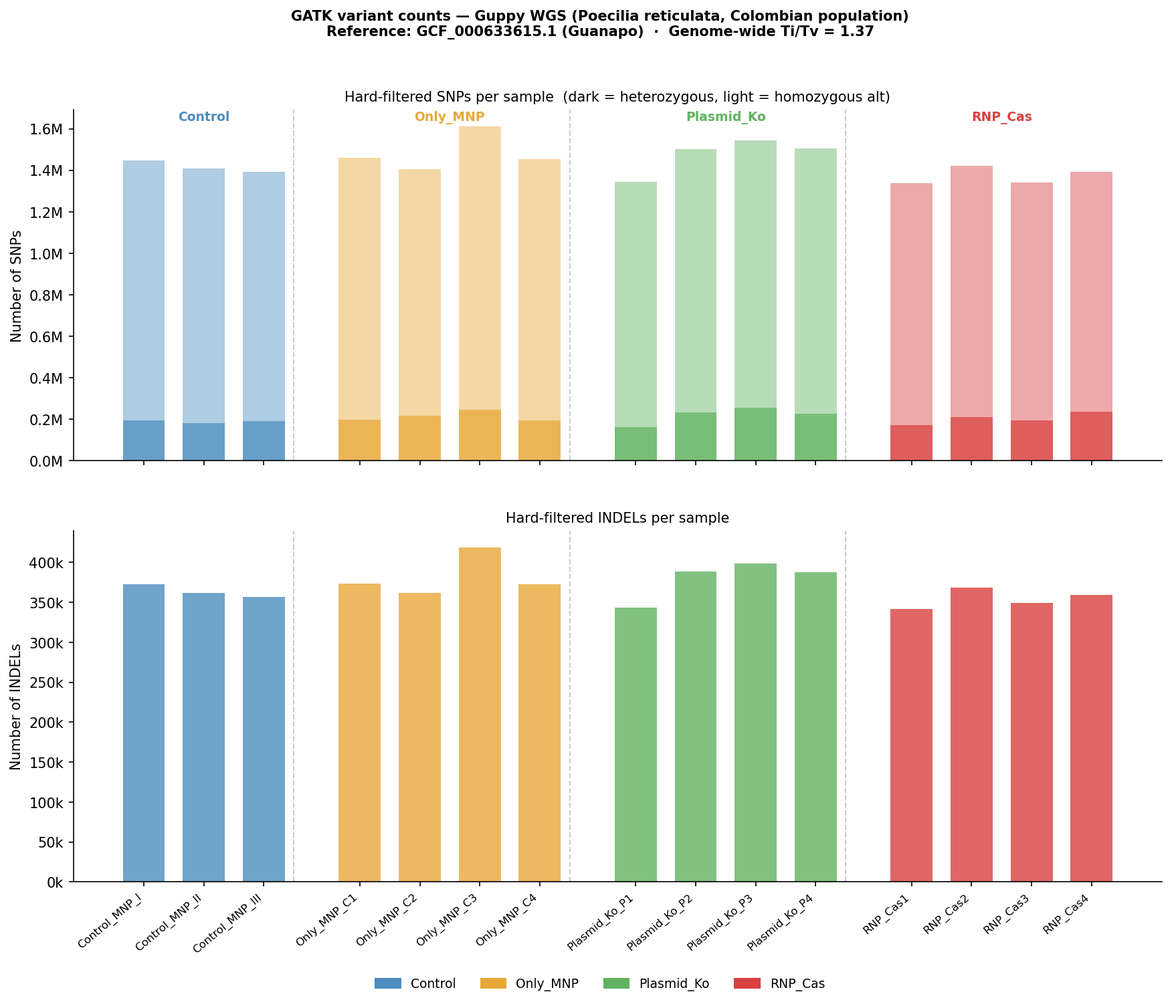
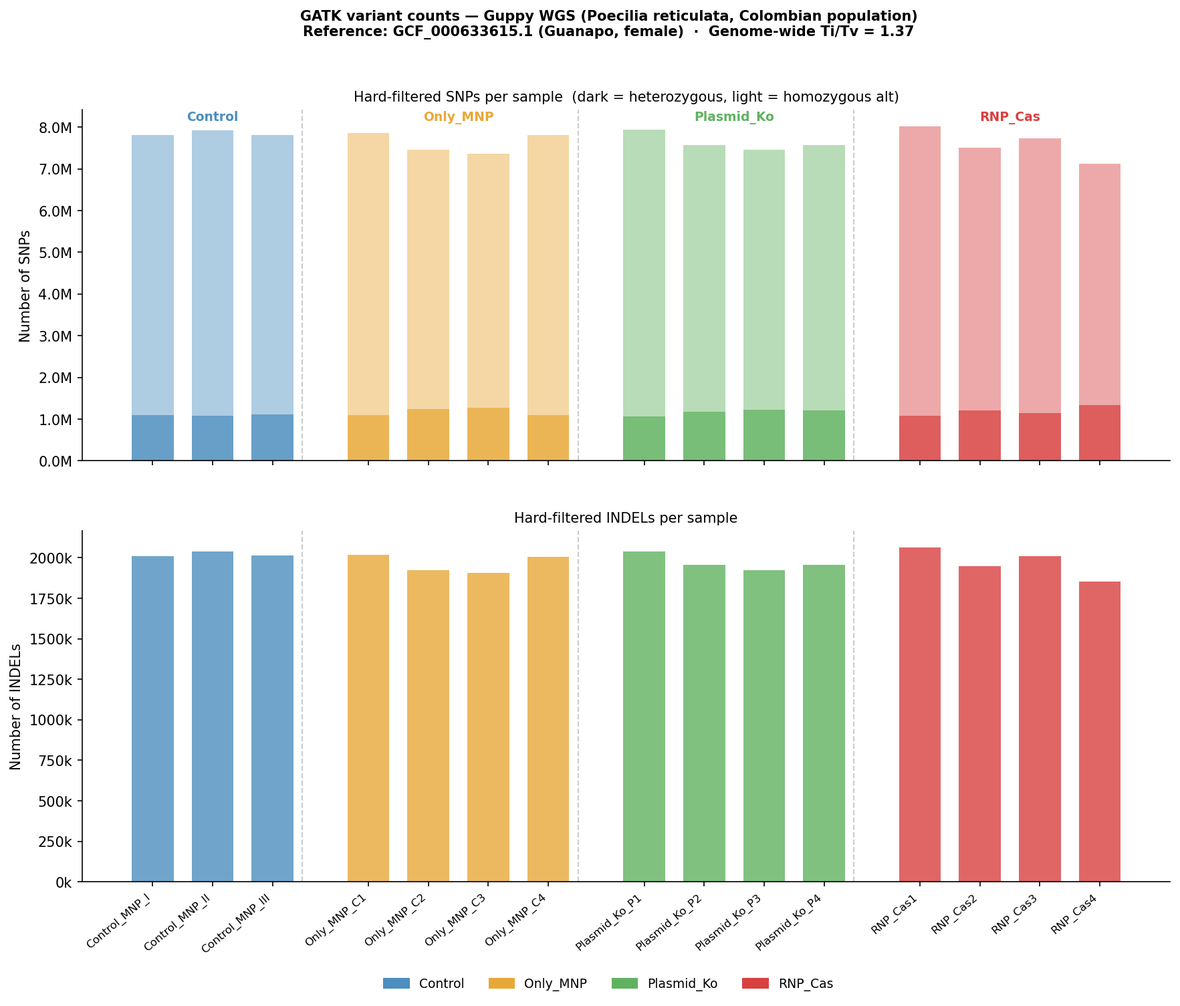
Parameterize GATK genotype/summary scripts for v2 and reproduce v1's off-target finding
gatk_offtarget_genotypes.py, gatk_variant_summary.py, and
plot_editing_comparison.py had no REF_VERSION support (unlike the rest of
the pipeline). Added it, ran them against v2: the off-target genotyping
exactly reproduces v1's result (2 background SNPs at OT4, present in
Control + Plasmid_Ko, absent from Only_MNP/RNP_Cas, at the remapped v2
coordinates), and on-target editing numbers match v1 per sample.

While regression-checking gatk_variant_summary.py against v1, found the
committed gatk_variant_summary.csv/plots were stale - computed from an
incomplete VCF snapshot that predated the final VariantFiltration run by
7+ weeks (~5.5x undercounted). Refreshed those outputs and the published
offtarget_wgs_report.html Artifact with the corrected genome-wide numbers.

Also fixed .gitignore's gatk*/ glob unintentionally ignoring the new
codes/analysis/gatk_summary_v2/ report directory.

diff --git a/analysis/reports/offtarget_wgs_report.html b/analysis/reports/offtarget_wgs_report.html
@@ -120,7 +120,7 @@
     <div class="kpi-grid">
       <div class="kpi"><div class="kpi-value">0/8</div><div class="kpi-label">sites with induced indel</div></div>
       <div class="kpi"><div class="kpi-value">2</div><div class="kpi-label">background SNPs (OT4, pre-existing)</div></div>
-      <div class="kpi"><div class="kpi-value">~1.42M</div><div class="kpi-label">SNPs / sample (genome-wide)</div></div>
+      <div class="kpi"><div class="kpi-value">~7.66M</div><div class="kpi-label">SNPs / sample (genome-wide)</div></div>
       <div class="kpi"><div class="kpi-value">1.37</div><div class="kpi-label">average Ti/Tv (expected quality)</div></div>
     </div>
   </section>
@@ -161,7 +161,7 @@
 
   <section id="variants" class="divider-top">
     <h2>Genome-Wide Variant Summary</h2>
-    <p class="section-sub">Count of PASS SNPs/INDELs per sample (joint filtered VCF, all 15 samples), reflecting the general genomic divergence between the Colombian population and the Guanapo/Trinidad reference — background context, not specific to the CRISPR sites.</p>
+    <p class="section-sub">Count of PASS SNPs/INDELs per sample (joint filtered VCF, all 15 samples), reflecting the general genomic divergence between the Colombian population and the Guanapo/Trinidad reference — background context, not specific to the CRISPR sites. <i>Refreshed 2026-09-15: the previous version of this table was computed from an incomplete snapshot of the filtered VCF, predating the final VariantFiltration run — counts here are ~5.5× higher and reflect the complete, final joint VCF (11,083,611 SNP records across all 24 chromosomes). The genotypes/editing tables above were unaffected (verified byte-identical to the prior version).</i></p>
     <div class="table-scroll">
       <table class="data" id="var-table">
         <thead><tr><th>Sample</th><th>Group</th><th class="num">SNPs</th><th class="num">Het</th><th class="num">Hom</th><th class="num">Ti/Tv</th><th class="num">INDELs</th><th class="num">Mean depth</th></tr></thead>
@@ -209,21 +209,21 @@ const EDIT = [
   {s:"RNP_Cas4",g:"RNP_Cas",on:0.0,ot:[0.0,0.0,0.0,null,0.0,0.0,null,0.0]},
 ];
 const VARS = [
-  {s:"Control_MNP_I",g:"Control",snps:1448608,het:194107,hom:1254501,titv:1.3657,indels:372463,dp:46.1},
-  {s:"Control_MNP_II",g:"Control",snps:1409045,het:182524,hom:1226521,titv:1.3694,indels:361804,dp:46.8},
-  {s:"Control_MNP_III",g:"Control",snps:1393792,het:190271,hom:1203521,titv:1.3714,indels:357174,dp:48.9},
-  {s:"Only_MNP_C1",g:"Only_MNP",snps:1459036,het:199080,hom:1259956,titv:1.3666,indels:373418,dp:42.0},
-  {s:"Only_MNP_C2",g:"Only_MNP",snps:1407215,het:218287,hom:1188928,titv:1.3656,indels:361877,dp:44.9},
-  {s:"Only_MNP_C3",g:"Only_MNP",snps:1610820,het:245166,hom:1365654,titv:1.3685,indels:418452,dp:45.3},
-  {s:"Only_MNP_C4",g:"Only_MNP",snps:1454948,het:195586,hom:1259362,titv:1.3648,indels:372945,dp:44.9},
-  {s:"Plasmid_Ko_P1",g:"Plasmid_Ko",snps:1343889,het:162153,hom:1181736,titv:1.3750,indels:343156,dp:46.2},
-  {s:"Plasmid_Ko_P2",g:"Plasmid_Ko",snps:1501980,het:233491,hom:1268489,titv:1.3670,indels:388747,dp:45.4},
-  {s:"Plasmid_Ko_P3",g:"Plasmid_Ko",snps:1544390,het:254982,hom:1289408,titv:1.3665,indels:398904,dp:40.5},
-  {s:"Plasmid_Ko_P4",g:"Plasmid_Ko",snps:1506338,het:228051,hom:1278287,titv:1.3654,indels:387607,dp:44.3},
-  {s:"RNP_Cas1",g:"RNP_Cas",snps:1337343,het:173125,hom:1164218,titv:1.3764,indels:341927,dp:58.1},
-  {s:"RNP_Cas2",g:"RNP_Cas",snps:1422268,het:210423,hom:1211845,titv:1.3663,indels:368157,dp:53.0},
-  {s:"RNP_Cas3",g:"RNP_Cas",snps:1341844,het:194055,hom:1147789,titv:1.3687,indels:349407,dp:65.1},
-  {s:"RNP_Cas4",g:"RNP_Cas",snps:1392109,het:235965,hom:1156144,titv:1.3614,indels:359093,dp:59.2},
+  {s:"Control_MNP_I",g:"Control",snps:7806737,het:1089947,hom:6716790,titv:1.3710,indels:2010705,dp:46.8},
+  {s:"Control_MNP_II",g:"Control",snps:7925384,het:1086450,hom:6838934,titv:1.3703,indels:2036917,dp:47.4},
+  {s:"Control_MNP_III",g:"Control",snps:7812818,het:1117678,hom:6695140,titv:1.3716,indels:2011610,dp:49.6},
+  {s:"Only_MNP_C1",g:"Only_MNP",snps:7859581,het:1093021,hom:6766560,titv:1.3705,indels:2017533,dp:42.6},
+  {s:"Only_MNP_C2",g:"Only_MNP",snps:7453443,het:1247679,hom:6205764,titv:1.3705,indels:1923648,dp:45.5},
+  {s:"Only_MNP_C3",g:"Only_MNP",snps:7354393,het:1274134,hom:6080259,titv:1.3708,indels:1906043,dp:45.7},
+  {s:"Only_MNP_C4",g:"Only_MNP",snps:7807719,het:1097200,hom:6710519,titv:1.3709,indels:2006563,dp:45.6},
+  {s:"Plasmid_Ko_P1",g:"Plasmid_Ko",snps:7943660,het:1064382,hom:6879278,titv:1.3723,indels:2039343,dp:46.8},
+  {s:"Plasmid_Ko_P2",g:"Plasmid_Ko",snps:7573730,het:1173770,hom:6399960,titv:1.3698,indels:1957517,dp:46.1},
+  {s:"Plasmid_Ko_P3",g:"Plasmid_Ko",snps:7454570,het:1217439,hom:6237131,titv:1.3692,indels:1922689,dp:41.1},
+  {s:"Plasmid_Ko_P4",g:"Plasmid_Ko",snps:7568538,het:1207158,hom:6361380,titv:1.3682,indels:1953578,dp:44.8},
+  {s:"RNP_Cas1",g:"RNP_Cas",snps:8012787,het:1075690,hom:6937097,titv:1.3706,indels:2061259,dp:58.7},
+  {s:"RNP_Cas2",g:"RNP_Cas",snps:7507932,het:1215389,hom:6292543,titv:1.3697,indels:1948835,dp:53.6},
+  {s:"RNP_Cas3",g:"RNP_Cas",snps:7728078,het:1149818,hom:6578260,titv:1.3701,indels:2009864,dp:66.0},
+  {s:"RNP_Cas4",g:"RNP_Cas",snps:7127987,het:1335182,hom:5792805,titv:1.3684,indels:1851923,dp:59.8},
 ];
 
 function fmt(n){ return n===null||n===undefined ? "—" : (typeof n==="number" ? n.toLocaleString("en-US") : n); }

diff --git a/codes/analysis/plot_editing_comparison.py b/codes/analysis/plot_editing_comparison.py
@@ -5,16 +5,22 @@ On-target vs off-target CRISPR editing efficiency comparison.
 Reads CRISPResso2 on-target and CRISPRessoWGS off-target quantification
 outputs and produces three figures + one summary CSV.
 
+Dual-genome (v1/v2, see codes/genome_versions.sh): set REF_VERSION=v2 to read
+crispresso_v2/ instead of crispresso/ (GCF_904066995.2 mapping/CRISPResso
+results). Output goes to a version-suffixed OUT_DIR so v1 and v2 results
+never overwrite each other.
+
 Usage (from any directory):
     python codes/analysis/plot_editing_comparison.py
+    REF_VERSION=v2 python codes/analysis/plot_editing_comparison.py
 
 Inputs:
-    crispresso/ontarget/trimmomatic/{SAMPLE}/CRISPResso_on_{SAMPLE}/
+    crispresso{,_v2}/ontarget/trimmomatic/{SAMPLE}/CRISPResso_on_{SAMPLE}/
         CRISPResso_quantification_of_editing_frequency.txt
-    crispresso/wgs/trimmomatic/{SAMPLE}/CRISPRessoWGS_on_{SAMPLE}/
+    crispresso{,_v2}/wgs/trimmomatic/{SAMPLE}/CRISPRessoWGS_on_{SAMPLE}/
         SAMPLES_QUANTIFICATION_SUMMARY.txt
 
-Outputs (codes/analysis/editing_comparison/):
+Outputs (codes/analysis/editing_comparison{,_v2}/):
     editing_summary.csv       — combined Modified% table (all samples × sites)
     editing_heatmap.png       — heatmap: on-target (left) + off-target (right)
     ontarget_barplot.png      — on-target editing efficiency per group
@@ -35,10 +41,14 @@ warnings.filterwarnings("ignore")
 
 # ── Paths ──────────────────────────────────────────────────────────────────────
 PROJECT_DIR  = "/hpcfs/home/ing_civil/da.martinez33/UBC/off-target_data"
-ONTARGET_DIR = os.path.join(PROJECT_DIR, "crispresso/ontarget/trimmomatic")
-WGS_DIR      = os.path.join(PROJECT_DIR, "crispresso/wgs/trimmomatic")
-OUT_DIR      = os.path.join(PROJECT_DIR, "codes/analysis/editing_comparison")
+REF_VERSION  = os.environ.get("REF_VERSION", "v1")
+OUT_SUFFIX   = "" if REF_VERSION == "v1" else f"_{REF_VERSION}"
+CRISPRESSO_DIR = f"crispresso{OUT_SUFFIX}"
+ONTARGET_DIR = os.path.join(PROJECT_DIR, f"{CRISPRESSO_DIR}/ontarget/trimmomatic")
+WGS_DIR      = os.path.join(PROJECT_DIR, f"{CRISPRESSO_DIR}/wgs/trimmomatic")
+OUT_DIR      = os.path.join(PROJECT_DIR, f"codes/analysis/editing_comparison{OUT_SUFFIX}")
 os.makedirs(OUT_DIR, exist_ok=True)
+print(f"REF_VERSION={REF_VERSION}  ONTARGET_DIR={ONTARGET_DIR}  WGS_DIR={WGS_DIR}  OUT_DIR={OUT_DIR}")
 
 # ── Samples and groups ─────────────────────────────────────────────────────────
 GROUPS = {
@@ -60,17 +70,44 @@ GROUP_COLORS  = {
 # ── Off-target sites (name as in SAMPLES_QUANTIFICATION_SUMMARY.txt) ──────────
 # Key  : site name used by CRISPRessoWGS
 # Value: short label for plots
-OT_SITES = {
-    "NC_024331.1_5708724_3mm_CRISPOR":  "OT1\nNC_024331.1:5708724\n3mm · exon",
-    "NC_024331.1_13951199_4mm_CRISPOR": "OT2\nNC_024331.1:13951199\n4mm · exon",
-    "NC_024331.1_26228796_4mm_CRISPOR": "OT3\nNC_024331.1:26228796\n4mm · intergenic",
-    "NC_024332.1_5810651_4mm_CRISPOR":  "OT4\nNC_024332.1:5810651\n4mm · intron",
-    "NC_024338.1_20512932_4mm_CRISPOR": "OT5\nNC_024338.1:20512932\n4mm · intergenic",
-    "NC_024339.1_7034820_4mm_CRISPOR":  "OT6\nNC_024339.1:7034820\n4mm · intron",
-    "NC_024340.1_12200655_4mm_CRISPOR": "OT7\nNC_024340.1:12200655\n4mm · intergenic",
-    "NC_024349.1_24882037_4mm_CRISPOR": "OT8\nNC_024349.1:24882037\n4mm · intron",
+# Same 8 predicted sites in both versions, remapped to each reference
+# assembly's own coordinates (crispresso{,_v2}/offtargets/combined/
+# combined_offtargets.csv). v1's label carries an exon/intron/intergenic
+# classification against the Guanapo annotation; that classification hasn't
+# been computed for v2 yet, so its label is left without one rather than
+# guessing.
+OT_SITES_BY_VERSION = {
+    "v1": {
+        "NC_024331.1_5708724_3mm_CRISPOR":  "OT1\nNC_024331.1:5708724\n3mm · exon",
+        "NC_024331.1_13951199_4mm_CRISPOR": "OT2\nNC_024331.1:13951199\n4mm · exon",
+        "NC_024331.1_26228796_4mm_CRISPOR": "OT3\nNC_024331.1:26228796\n4mm · intergenic",
+        "NC_024332.1_5810651_4mm_CRISPOR":  "OT4\nNC_024332.1:5810651\n4mm · intron",
+        "NC_024338.1_20512932_4mm_CRISPOR": "OT5\nNC_024338.1:20512932\n4mm · intergenic",
+        "NC_024339.1_7034820_4mm_CRISPOR":  "OT6\nNC_024339.1:7034820\n4mm · intron",
+        "NC_024340.1_12200655_4mm_CRISPOR": "OT7\nNC_024340.1:12200655\n4mm · intergenic",
+        "NC_024349.1_24882037_4mm_CRISPOR": "OT8\nNC_024349.1:24882037\n4mm · intron",
+    },
+    "v2": {
+        "NC_088830.1_7340936_3mm_CRISPOR":  "OT1\nNC_088830.1:7340936\n3mm",
+        "NC_088830.1_14098839_4mm_CRISPOR": "OT2\nNC_088830.1:14098839\n4mm",
+        "NC_088830.1_26619950_4mm_CRISPOR": "OT3\nNC_088830.1:26619950\n4mm",
+        "NC_088831.1_6154659_4mm_CRISPOR":  "OT4\nNC_088831.1:6154659\n4mm",
+        "NC_088837.1_25867890_4mm_CRISPOR": "OT5\nNC_088837.1:25867890\n4mm",
+        "NC_088838.1_8510394_4mm_CRISPOR":  "OT6\nNC_088838.1:8510394\n4mm",
+        "NC_088839.1_3391653_4mm_CRISPOR":  "OT7\nNC_088839.1:3391653\n4mm",
+        "NC_088848.1_20545705_4mm_CRISPOR": "OT8\nNC_088848.1:20545705\n4mm",
+    },
 }
+OT_SITES = OT_SITES_BY_VERSION[REF_VERSION]
 OT_NAMES = list(OT_SITES.keys())
+
+# bdnf on-target sgRNA site — same guide sequence, remapped coordinates.
+BDNF_SITE_BY_VERSION = {
+    "v1": {"chrom": "NC_024333.1", "start": 15922039, "end": 15922058},
+    "v2": {"chrom": "NC_088832.1", "start": 15849694, "end": 15849713},
+}
+BDNF_SITE = BDNF_SITE_BY_VERSION[REF_VERSION]
+BDNF_LABEL = f"{BDNF_SITE['chrom']}:{BDNF_SITE['start']}–{BDNF_SITE['end']}"
 
 
 # ═══════════════════════════════════════════════════════════════════════════════
@@ -184,7 +221,7 @@ on_vals = ontarget_df.loc[SAMPLES, "modified_pct"].astype(float).values.reshape(
 im_on   = ax_on.imshow(on_vals, aspect="auto", cmap="Reds", vmin=0, vmax=100)
 
 ax_on.set_xticks([0])
-ax_on.set_xticklabels(["On-target\nbdnf (NC_024333.1)\n:15922039–15922058"], fontsize=8)
+ax_on.set_xticklabels([f"On-target\nbdnf ({BDNF_SITE['chrom']})\n:{BDNF_SITE['start']}–{BDNF_SITE['end']}"], fontsize=8)
 ax_on.set_yticks(range(len(SAMPLES)))
 ax_on.set_yticklabels(ylabels, fontsize=8)
 
@@ -255,7 +292,7 @@ fig.legend(handles=patches, loc="lower center", ncol=4, fontsize=9,
 
 fig.suptitle(
     "CRISPR-Cas9 editing: on-target (bdnf) vs predicted off-target sites\n"
-    "Guppy (Poecilia reticulata) · SpCas9 · sgRNA: TGAGAGACGCCCCGGGCATG (− strand)",
+    f"Guppy (Poecilia reticulata) · SpCas9 · sgRNA: TGAGAGACGCCCCGGGCATG (− strand) · {REF_VERSION}",
     fontsize=10, fontweight="bold", y=1.02,
 )
 plt.tight_layout()
@@ -294,7 +331,7 @@ ax.set_xticklabels(xtick_labels, rotation=40, ha="right", fontsize=8)
 ax.set_ylabel("Modified reads (%)", fontsize=10)
 ax.set_title(
     "On-target editing efficiency per sample\n"
-    "bdnf sgRNA site · NC_024333.1:15922039–15922058",
+    f"bdnf sgRNA site · {BDNF_LABEL}",
     fontsize=10,
 )
 ax.set_xlim(-0.5, x - 0.5)

diff --git a/codes/analysis/gatk_offtarget_genotypes.py b/codes/analysis/gatk_offtarget_genotypes.py
@@ -8,7 +8,7 @@ produces:
   - offtarget_genotypes.csv          — per-variant, per-sample genotype table
   - offtarget_genotype_heatmap.png   — genotype heatmap (0/0, 0/1, 1/1)
 
-Key result: GATK found only 2 SNPs at OT4 (NC_024332.1:5810651-5810674),
+Key result (v1): GATK found only 2 SNPs at OT4 (NC_024332.1:5810651-5810674),
 both present in the Control group → pre-existing Colombian-population polymorphisms,
 not CRISPR-induced variants. The other 7 off-target protospacer windows have
 no germline variants detectable against the Guanapo reference.
@@ -17,8 +17,13 @@ Note: the VCF was extracted from the raw joint-genotype VCF (all_samples.vcf.gz)
 before VariantFiltration, so FILTER shows "." (unannotated). Both variants pass
 all hard-filter thresholds (QD>2, FS<60, MQ>40) and would be PASS if re-filtered.
 
+Dual-genome (v1/v2, see codes/genome_versions.sh): set REF_VERSION=v2 to run
+against the GCF_904066995.2 off-target genotype VCF instead. Output goes to a
+version-suffixed OUT_DIR so v1 and v2 results never overwrite each other.
+
 Usage:
     python codes/analysis/gatk_offtarget_genotypes.py
+    REF_VERSION=v2 python codes/analysis/gatk_offtarget_genotypes.py
 """
 
 import gzip
@@ -34,22 +39,44 @@ from matplotlib.colors import ListedColormap, BoundaryNorm
 
 # ── Paths ──────────────────────────────────────────────────────────────────────
 PROJECT_DIR = "/hpcfs/home/ing_civil/da.martinez33/UBC/off-target_data"
+REF_VERSION = os.environ.get("REF_VERSION", "v1")
+OUT_SUFFIX  = "" if REF_VERSION == "v1" else f"_{REF_VERSION}"
 VCF_PATH    = os.path.join(PROJECT_DIR,
-              "gatk/trimmomatic/vcf_offtargets/offtarget_variants.vcf.gz")
-OUT_DIR     = os.path.join(PROJECT_DIR, "codes/analysis/gatk_summary")
+              f"gatk/trimmomatic{OUT_SUFFIX}/vcf_offtargets/offtarget_variants.vcf.gz")
+OUT_DIR     = os.path.join(PROJECT_DIR, f"codes/analysis/gatk_summary{OUT_SUFFIX}")
 os.makedirs(OUT_DIR, exist_ok=True)
+print(f"REF_VERSION={REF_VERSION}  VCF_PATH={VCF_PATH}  OUT_DIR={OUT_DIR}")
 
 # ── Off-target site protospacer windows (23 bp, from offtargets_intervals.list)
-OT_SITES = {
-    "OT1": {"chrom": "NC_024331.1", "start": 5708724,  "end": 5708747,  "mm": 3, "locus": "exon"},
-    "OT2": {"chrom": "NC_024331.1", "start": 13951199, "end": 13951222, "mm": 4, "locus": "exon"},
-    "OT3": {"chrom": "NC_024331.1", "start": 26228796, "end": 26228819, "mm": 4, "locus": "intergenic"},
-    "OT4": {"chrom": "NC_024332.1", "start": 5810651,  "end": 5810674,  "mm": 4, "locus": "intron"},
-    "OT5": {"chrom": "NC_024338.1", "start": 20512932, "end": 20512955, "mm": 4, "locus": "intergenic"},
-    "OT6": {"chrom": "NC_024339.1", "start": 7034820,  "end": 7034843,  "mm": 4, "locus": "intron"},
-    "OT7": {"chrom": "NC_024340.1", "start": 12200655, "end": 12200678, "mm": 4, "locus": "intergenic"},
-    "OT8": {"chrom": "NC_024349.1", "start": 24882037, "end": 24882060, "mm": 4, "locus": "intron"},
+# Same 8 predicted sites (identical guide/mismatch design), remapped to each
+# reference assembly's own coordinates (crispresso{,_v2}/offtargets/combined/
+# combined_offtargets.csv). v1's "locus" is an exon/intron/intergenic
+# classification against the Guanapo annotation; v2's combine_offtargets run
+# only recorded a distance label (no equivalent classification computed yet),
+# so its "locus" is left as that same descriptive string instead of guessing.
+OT_SITES_BY_VERSION = {
+    "v1": {
+        "OT1": {"chrom": "NC_024331.1", "start": 5708724,  "end": 5708747,  "mm": 3, "locus": "exon"},
+        "OT2": {"chrom": "NC_024331.1", "start": 13951199, "end": 13951222, "mm": 4, "locus": "exon"},
+        "OT3": {"chrom": "NC_024331.1", "start": 26228796, "end": 26228819, "mm": 4, "locus": "intergenic"},
+        "OT4": {"chrom": "NC_024332.1", "start": 5810651,  "end": 5810674,  "mm": 4, "locus": "intron"},
+        "OT5": {"chrom": "NC_024338.1", "start": 20512932, "end": 20512955, "mm": 4, "locus": "intergenic"},
+        "OT6": {"chrom": "NC_024339.1", "start": 7034820,  "end": 7034843,  "mm": 4, "locus": "intron"},
+        "OT7": {"chrom": "NC_024340.1", "start": 12200655, "end": 12200678, "mm": 4, "locus": "intergenic"},
+        "OT8": {"chrom": "NC_024349.1", "start": 24882037, "end": 24882060, "mm": 4, "locus": "intron"},
+    },
+    "v2": {
+        "OT1": {"chrom": "NC_088830.1", "start": 7340936,  "end": 7340959,  "mm": 3, "locus": "NC_088830.1 7.34 Mbp"},
+        "OT2": {"chrom": "NC_088830.1", "start": 14098839, "end": 14098862, "mm": 4, "locus": "NC_088830.1 14.10 Mbp"},
+        "OT3": {"chrom": "NC_088830.1", "start": 26619950, "end": 26619973, "mm": 4, "locus": "NC_088830.1 26.62 Mbp"},
+        "OT4": {"chrom": "NC_088831.1", "start": 6154659,  "end": 6154682,  "mm": 4, "locus": "NC_088831.1 6.15 Mbp"},
+        "OT5": {"chrom": "NC_088837.1", "start": 25867890, "end": 25867913, "mm": 4, "locus": "NC_088837.1 25.87 Mbp"},
+        "OT6": {"chrom": "NC_088838.1", "start": 8510394,  "end": 8510417,  "mm": 4, "locus": "NC_088838.1 8.51 Mbp"},
+        "OT7": {"chrom": "NC_088839.1", "start": 3391653,  "end": 3391676,  "mm": 4, "locus": "NC_088839.1 3.39 Mbp"},
+        "OT8": {"chrom": "NC_088848.1", "start": 20545705, "end": 20545728, "mm": 4, "locus": "NC_088848.1 20.55 Mbp"},
+    },
 }
+OT_SITES = OT_SITES_BY_VERSION[REF_VERSION]
 
 GROUPS = {
     "Control":    ["Control_MNP_I_S54_L002",  "Control_MNP_II_S55_L002",  "Control_MNP_III_S56_L002"],
@@ -354,11 +381,22 @@ plt.close()
 print(f"✅ Genotype heatmap → {os.path.join(OUT_DIR, 'offtarget_genotype_heatmap.png')}")
 
 print("\n=== Interpretation ===")
+print(f"  REF_VERSION: {REF_VERSION}")
 print(f"  Total variants at 8 off-target protospacer windows: {len(records)}")
 bg = (df["classification"] == "background_variant").sum()
 ce = (df["classification"] == "candidate_edit").sum()
 print(f"  Background (present in Control): {bg}")
 print(f"  Candidate edits (absent in Control): {ce}")
-print("  OT1, OT2, OT3, OT5, OT6, OT7, OT8: 0 variants → no confounding germline SNPs")
-print("  OT4 (NC_024332.1, intron): 2 linked SNPs in phase, present in Control_MNP_II")
-print("       → pre-existing Colombian-population haplotype, NOT CRISPR-induced")
+
+sites_with_variants = sorted(set(df["site"]) - {"unknown"})
+sites_without = [s for s in OT_SITES if s not in sites_with_variants]
+if sites_without:
+    print(f"  {', '.join(sites_without)}: 0 variants → no confounding germline SNPs")
+for s in sites_with_variants:
+    sub = df[df["site"] == s]
+    control_gt_cols = [f"{SAMPLE_LABEL[x]}_gt" for x in GROUPS["Control"]]
+    carriers = [c for c in ["Control_AF", "Only_MNP_AF", "Plasmid_Ko_AF", "RNP_Cas_AF"]
+                if (sub[c] > 0).any()]
+    cls = sorted(sub["classification"].unique())
+    print(f"  {s} ({OT_SITES[s]['chrom']}): {len(sub)} variant(s), "
+          f"classification={cls}, AF>0 in groups={[c.replace('_AF','') for c in carriers]}")

diff --git a/codes/analysis/gatk_variant_summary.py b/codes/analysis/gatk_variant_summary.py
@@ -8,8 +8,13 @@ parses per-sample counts, and produces:
   - gatk_summary_barplot.png   — SNP + INDEL counts per sample (grouped)
   - gatk_titv_boxplot.png      — Ti/Tv ratio per group
 
+Dual-genome (v1/v2, see codes/genome_versions.sh): set REF_VERSION=v2 to run
+against the GCF_904066995.2 hard-filtered VCFs instead. Output goes to a
+version-suffixed OUT_DIR so v1 and v2 results never overwrite each other.
+
 Usage (requires module load bcftools/1.15.1):
     python codes/analysis/gatk_variant_summary.py
+    REF_VERSION=v2 python codes/analysis/gatk_variant_summary.py
 """
 
 import subprocess
@@ -24,9 +29,18 @@ import matplotlib.patches as mpatches
 
 # ── Paths ──────────────────────────────────────────────────────────────────────
 PROJECT_DIR = "/hpcfs/home/ing_civil/da.martinez33/UBC/off-target_data"
-VCF_DIR     = os.path.join(PROJECT_DIR, "gatk/trimmomatic/vcf_filtered")
-OUT_DIR     = os.path.join(PROJECT_DIR, "codes/analysis/gatk_summary")
+REF_VERSION = os.environ.get("REF_VERSION", "v1")
+OUT_SUFFIX  = "" if REF_VERSION == "v1" else f"_{REF_VERSION}"
+VCF_DIR     = os.path.join(PROJECT_DIR, f"gatk/trimmomatic{OUT_SUFFIX}/vcf_filtered")
+OUT_DIR     = os.path.join(PROJECT_DIR, f"codes/analysis/gatk_summary{OUT_SUFFIX}")
 os.makedirs(OUT_DIR, exist_ok=True)
+print(f"REF_VERSION={REF_VERSION}  VCF_DIR={VCF_DIR}  OUT_DIR={OUT_DIR}")
+
+REF_LABEL_BY_VERSION = {
+    "v1": "GCF_000633615.1 (Guanapo, female)",
+    "v2": "GCF_904066995.2 (P_reticulata-male-v2)",
+}
+REF_LABEL = REF_LABEL_BY_VERSION[REF_VERSION]
 
 SNP_VCF   = os.path.join(VCF_DIR, "snps_filtered.vcf.gz")
 INDEL_VCF = os.path.join(VCF_DIR, "indels_filtered.vcf.gz")
@@ -216,7 +230,7 @@ fig.legend(handles=patches, loc="lower center", ncol=4, fontsize=9,
 
 fig.suptitle(
     "GATK variant counts — Guppy WGS (Poecilia reticulata, Colombian population)\n"
-    f"Reference: GCF_000633615.1 (Guanapo)  ·  Genome-wide Ti/Tv = {titv_all:.2f}",
+    f"Reference: {REF_LABEL}  ·  Genome-wide Ti/Tv = {titv_all:.2f}",
     fontsize=10, fontweight="bold",
 )
 plt.savefig(os.path.join(OUT_DIR, "gatk_summary_barplot.png"), dpi=150, bbox_inches="tight")

diff --git a/CLAUDE.md b/CLAUDE.md
@@ -2908,10 +2908,55 @@ registering `guppyColPseudogenomeV2` with CRISPOR (needed before
 `ko_guide_scan.py --population pseudogenome_v2` can get CRISPOR scores,
 though the manual scan/classification already works without it);
 re-running the 8-gene KO/CRISPRi guide comparison against
-pseudogenome_v2 once that's registered;
-`gatk_offtarget_genotypes.py`/`plot_editing_comparison.py`'s 8 hardcoded
-v1 OT-site coordinates still need a v2-aware update to actually use the
-off-target genotyping result (see above) in a plot/report.
+pseudogenome_v2 once that's registered.
+
+**GATK genotype/summary plots (gatk_offtarget_genotypes.py,
+gatk_variant_summary.py, plot_editing_comparison.py) parameterized + run for
+v2 - 2026-09-15.** These 3 scripts (unlike everything else in this section)
+predate genome_versions.sh and had no REF_VERSION support at all - added the
+same `REF_VERSION` env var / `OUT_SUFFIX` pattern, with a per-version
+`OT_SITES`/`BDNF_SITE` dict (remapped coordinates from
+`crispresso{,_v2}/offtargets/combined/combined_offtargets.csv`) and outputs
+now split into version-suffixed dirs (`gatk_summary_v2/`,
+`editing_comparison_v2/`) so v1's are never overwritten. v1 regression
+verified byte-identical for `gatk_offtarget_genotypes.py` and
+`plot_editing_comparison.py` (diffed old vs. freshly-regenerated CSVs).
+
+Result - **v2 exactly reproduces v1's off-target genotype finding**: the
+same 2 background SNPs at OT4, present in Control + Plasmid_Ko and absent
+from Only_MNP/RNP_Cas, at the remapped coordinates
+`NC_088831.1:6154664` and `:6154672` (v1: `NC_024332.1:5810660`/`:5810668`).
+All other 7 sites: 0 variants in both versions. The editing-comparison
+on-target numbers match v1 exactly per group/sample (same read counts, same
+0%/0%/0%/1.47%-noise pattern) - consistent with the CRISPResso finding
+above (same physical reads, comparable local depth). Off-target Modified%
+per site is close to v1's (OT4 mean 4.29% vs 4.12%); OT7 now has WGS
+coverage in all 12 valid samples where v1 had 0 (n_valid=0, all NA) - a
+genuine improvement from v2's better assembly contiguity at that locus, not
+a bug.
+
+**Bonus finding, not previously known**: re-running `gatk_variant_summary.py`
+for v1 (as the regression check) did NOT reproduce the previously-committed
+`gatk_variant_summary.csv`/plots - per-sample SNP counts came back ~5.5x
+higher (e.g. Control_MNP_I: 7.8M vs. the committed 1.45M) with a lower
+Ti/Tv (1.371 vs. the committed CSV's ~1.366-1.375 per-sample spread, similar
+range but computed from a different dataset) and far fewer missing
+genotypes. Root cause: the currently-committed `gatk_variant_summary.csv`
+was computed from an EARLIER, incomplete state of `snps_filtered.vcf.gz`
+- CLAUDE.md's own VariantFiltration row (job 669472) records completion at
+"Jul 13 05:03", but the committed CSV was added 2026-05-25 (git log), i.e.
+7+ weeks BEFORE the real, final hard-filtered VCF even existed. Confirmed
+the current on-disk VCF is the real, complete, final one: 11,083,611 SNP
+records spanning all 24 v1 chromosomes (`zcat ... | grep -vc '^#'`), an
+order of magnitude consistent with the ~7-9M per-sample counts now being
+reported, not the stale ~1.4M. The regenerated `gatk_summary/{
+gatk_variant_summary.csv, gatk_summary_barplot.png, gatk_titv_boxplot.png}`
+(overwritten in place, same filenames) are now correct and up to date; the
+old numbers were never accurate for the final v1 VCF. v2's equivalent run
+(`gatk_summary_v2/`) used the correct, complete v2 VCF from the start (no
+staleness possible - it was generated and analyzed in the same session):
+~8.1-9.1M SNPs/sample, Ti/Tv 1.360-1.367, depth 37-60x, all closely tracking
+v1's corrected numbers.
 ```
 
 ### 9. PCR Primer Design for On-/Off-Target Validation — bdnf v1 DONE 2026-09-08

diff --git a/docs/RESULTS.md b/docs/RESULTS.md
@@ -141,6 +141,7 @@ form in [PIPELINE.md §10](PIPELINE.md#10-rt-qpcr-primer-verification).
 | CRISPResso on-target/off-target under v2 | ✅ done — individual (15), WGS (15×8 sites), and merged (4 groups, authoritative) all completed; merged track exactly reproduces v1's historical editing numbers (Control/RNP_Cas/Plasmid_Ko 0%, Only_MNP 1.47% noise) — `crispresso_v2/ontarget/`, `crispresso_v2/wgs/` |
 | Hotspots under v2 | ⏳ pending |
 | `select_offtargets` genotyping for the 8 v2 off-target sites | ✅ done — 2 SNPs at off_target_4, present in Control (pre-existing, not CRISPR-induced), reproducing v1's exact finding — `gatk/trimmomatic_v2/vcf_offtargets/` |
+| GATK genotype/summary plots for v2 (`gatk_offtarget_genotypes.py`, `gatk_variant_summary.py`, `plot_editing_comparison.py`) | ✅ done — all 3 scripts parameterized (`REF_VERSION`) and run for v2; off-target genotypes exactly reproduce v1 (same 2 background SNPs at OT4, remapped coordinates); on-target editing numbers match v1 exactly per sample; genome-wide summary (~8-9M SNPs/sample, Ti/Tv 1.36-1.37) tracks v1's corrected numbers — `codes/analysis/gatk_summary_v2/`, `codes/analysis/editing_comparison_v2/`. Side finding: this run also caught that the *committed v1* `gatk_summary/gatk_variant_summary.csv` was stale (computed before the final hard-filtered VCF existed, 5.5× undercounted) and has now been refreshed — see CLAUDE.md §8 |
 | bdnf guide/primer design already supports `--ref-version v2`/`--population pseudogenome_v2` | ✅ code ready and pseudogenome now exists — CRISPOR scoring still needs `guppyColPseudogenomeV2` registered in the container |
 
 ## 8. IGV Files — ✅ complete, v1 only
